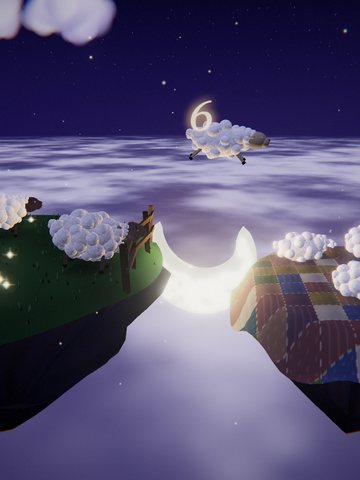
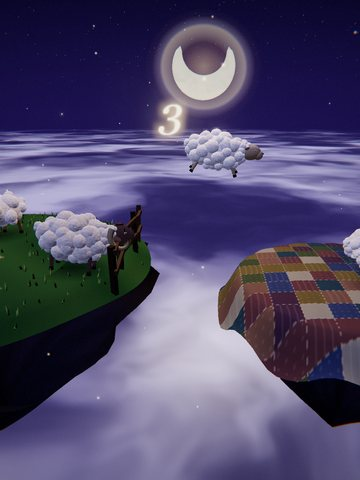
Counting Sheep: the moon up in the sky, and a cloud sea that billows
- The crescent moon hangs near the top of the view, whatever the
  screen's shape, with the breathing ring round it; each sheep sails
  up beneath it at the top of the leap, and its light falls from above
- The cloud sea is rebuilt: every octave of noise turned and shifted
  (no grid shows through), warped by itself so it billows, detail
  fading with distance, lit on its moon side, with moonlight glinting
  across the tops; the sky's own cloud band kept faint
- Softer moon, paler halo and ring; new thumbnail

diff --git a/web/scenes/dream/sheep.js b/web/scenes/dream/sheep.js
@@ -1,8 +1,8 @@
 // Counting Sheep: the old trick, made literal. A flock of cloud-sheep grazes on stars that grow
-// in the grass of a little floating island. Beyond its fence, a crescent moon rocks like a cradle
-// in the gap, and across it lies a second island made up like a bed: a patchwork quilt and a
+// in the grass of a little floating island, over a sea of cloud. High above, a crescent moon rocks
+// like a cradle; across the gap lies a second island made up like a bed: a patchwork quilt and a
 // pillow. Every so often (on the music's breath: the run-up on the in-breath, the long float down
-// on the out-breath) a sheep trots up and leaps the fence, over the moon, and a number glows and
+// on the out-breath) a sheep trots up and leaps the fence, up towards the moon, and a number glows and
 // fades: 1, 2, 3... It lands on the quilt, finds a place, lies down and sleeps; after a while it
 // melts into a cloud and drifts up into the sky, and later a cloud may come down to the grass as a
 // sheep again. As the night goes on the jumps get lazier, the clouds stop coming down, and the
@@ -14,7 +14,7 @@ const WC = new THREE.Vector3(-4.0, 0, 0), WR = 3.9;       // the waking island, 
 const SC = new THREE.Vector3(4.3, -0.45, -0.3), SR = 2.6;  // the sleeping island: the quilt and the pillow
 const FENCE_X = -0.55, FENCE_Z = 1.5;
 const TAKEOFF = new THREE.Vector3(-1.45, 0, 0), WAIT = new THREE.Vector3(-3.3, 0, 0.15), LAND = new THREE.Vector3(2.75, 0, -0.1);
-const MOON = new THREE.Vector3(0.6, -0.55, -1.7);
+const MOON_LIGHT = new THREE.Vector3(0.6, 6.5, -2.0); // where the moon's light falls from (the moon itself hangs far off, high in the sky)
 const RAMSPOT = new THREE.Vector3(-1.35, 0, 1.1);
 // The jump is shaped like a breath: the run-up and a quick hop to the top on the in-breath, then
 // a long, slow float down on the out-breath, like thistledown.
@@ -162,11 +162,11 @@ const WOOLF = `uniform vec3 uCam, uKey, uKeyCol, uMoonPos, uMoonCol, uSky, uGrou
 export function createSheepScene({ mobile, seed }) {
   const S = createStage({ mobile, seed, salt: 0x5ee9, bg: '#0b0a26', fog: { color: '#1c1a40', near: 30, far: 140 }, exposure: 1.0, bloom: [0.55, 0.5, 0.72], finish: { vignette: 0.4, grain: 0.02, ca: 0.6 }, fov: 50 });
   const { rand } = S;
-  const sky = nightSky(S, { top: '#06051a', horizon: '#221d4c', moon: [0, -1, 0], moonSize: 0.0001, halo: '#000000', stars: 1.6, clouds: 0.22, cloudColor: '#34306a', tint: '#2c1640' });
+  const sky = nightSky(S, { top: '#06051a', horizon: '#221d4c', moon: [0, -1, 0], moonSize: 0.0001, halo: '#000000', stars: 1.6, clouds: 0.06, cloudColor: '#34306a', tint: '#2c1640' });
   const su = sky.userData.u;
   moonlight(S, { dir: [-0.4, 0.8, 0.5], color: '#b8c2ff', intensity: 0.75, sky: '#6a6ab8', ground: '#1a1830', fill: 0.75 });
 
-  // ---------------------------------------------------------------- the crescent moon, rocking in the gap
+  // ---------------------------------------------------------------- the crescent moon, rocking high in the sky (placed each frame, near the top of the view)
   const moonU = { uTime: S.U.uTime, uGlow: { value: 1 } };
   const moon = new THREE.Mesh(crescentGeo(1.35), new THREE.ShaderMaterial({
     uniforms: moonU,
@@ -179,20 +179,20 @@ export function createSheepScene({ mobile, seed }) {
         float crater = smoothstep(.62, .78, n2(vP.xy * 5. + 11.)) * .5;
         vec3 col = mix(vec3(1., .95, .8), vec3(.86, .8, .66), m * .7 + crater * .5);
         col *= .8 + .2 * max(normalize(vN).z, 0.);
-        gl_FragColor = vec4(col * (.6 + .22 * uGlow), 1.);
+        gl_FragColor = vec4(col * (.5 + .16 * uGlow), 1.);
       }`,
   }));
-  moon.position.copy(MOON); S.add(moon);
-  const haloTex = canvasTexture(S, 128, 128, (g) => { const gr = g.createRadialGradient(64, 64, 0, 64, 64, 64); gr.addColorStop(0, 'rgba(255,226,170,.22)'); gr.addColorStop(0.35, 'rgba(255,200,150,.07)'); gr.addColorStop(1, 'rgba(255,180,140,0)'); g.fillStyle = gr; g.fillRect(0, 0, 128, 128); });
-  const halo = new THREE.Sprite(new THREE.SpriteMaterial({ map: haloTex, transparent: true, depthWrite: false, blending: THREE.AdditiveBlending })); halo.position.copy(MOON).add(new THREE.Vector3(0, -0.4, -0.3)); halo.scale.setScalar(5.5); S.add(halo);
+  S.add(moon);
+  const haloTex = canvasTexture(S, 128, 128, (g) => { const gr = g.createRadialGradient(64, 64, 0, 64, 64, 64); gr.addColorStop(0, 'rgba(250,244,230,.16)'); gr.addColorStop(0.35, 'rgba(225,225,255,.06)'); gr.addColorStop(1, 'rgba(210,210,255,0)'); g.fillStyle = gr; g.fillRect(0, 0, 128, 128); });
+  const halo = new THREE.Sprite(new THREE.SpriteMaterial({ map: haloTex, transparent: true, depthWrite: false, blending: THREE.AdditiveBlending })); S.add(halo);
   const ringTex = canvasTexture(S, 256, 256, (g) => {
     const gr = g.createRadialGradient(128, 128, 60, 128, 128, 126);
-    gr.addColorStop(0, 'rgba(255,230,180,0)'); gr.addColorStop(0.62, 'rgba(255,226,170,.55)'); gr.addColorStop(0.72, 'rgba(255,220,170,.2)'); gr.addColorStop(1, 'rgba(255,210,160,0)');
+    gr.addColorStop(0, 'rgba(255,244,220,0)'); gr.addColorStop(0.62, 'rgba(255,242,215,.5)'); gr.addColorStop(0.72, 'rgba(240,236,255,.18)'); gr.addColorStop(1, 'rgba(230,230,255,0)');
     g.fillStyle = gr; g.fillRect(0, 0, 256, 256);
   });
   const breathRing = new THREE.Sprite(new THREE.SpriteMaterial({ map: ringTex, transparent: true, depthWrite: false, blending: THREE.AdditiveBlending, opacity: 0.1 }));
-  breathRing.position.copy(MOON).add(new THREE.Vector3(0, -0.15, 0.2)); S.add(breathRing);
-  const moonLamp = new THREE.PointLight('#ffe2a8', 7, 13, 1.4); moonLamp.position.copy(MOON).add(new THREE.Vector3(0, 0.5, 0.8)); S.add(moonLamp);
+  S.add(breathRing);
+  const moonLamp = new THREE.PointLight('#ffe2a8', 7, 22, 1.1); moonLamp.position.copy(MOON_LIGHT); S.add(moonLamp);
 
   // ---------------------------------------------------------------- the waking island: grass, stars growing in it, the fence
   const grassCol = (x, z, c) => { const k = 0.5 + 0.5 * Math.sin(x * 1.7 + Math.cos(z * 1.3) * 2) * Math.sin(z * 1.1 - x * 0.4); c.set('#3a6a3c').lerp(new THREE.Color('#5d8a4a'), k * 0.8); };
@@ -280,22 +280,31 @@ export function createSheepScene({ mobile, seed }) {
   }
 
   // ---------------------------------------------------------------- far below: a sea of cloud
-  const seaU = { uTime: S.U.uTime, uLit: { value: 1 } };
+  const seaU = { uTime: S.U.uTime, uLit: { value: 1 }, uCam: { value: new THREE.Vector3() }, uMoon: { value: new THREE.Vector3(0, 30, -50) } };
   const sea = new THREE.Mesh(new THREE.PlaneGeometry(900, 900).rotateX(-Math.PI / 2), new THREE.ShaderMaterial({
     uniforms: seaU, transparent: true, depthWrite: false,
     vertexShader: 'varying vec3 vW; void main(){ vec4 w = modelMatrix * vec4(position, 1.); vW = w.xyz; gl_Position = projectionMatrix * viewMatrix * w; }',
-    fragmentShader: `uniform float uTime, uLit; varying vec3 vW;
-      float h2(vec2 p){ p = fract(p * vec2(123.34, 456.21)); p += dot(p, p + 45.32); return fract(p.x * p.y); }
+    // Every octave of the noise is turned and shifted (so no grid shows through) and the whole
+    // pattern is warped by itself, so it billows instead of tiling; detail fades with distance
+    // (no shimmer); each billow is lit on its moon side, and the moon glints across the tops.
+    fragmentShader: `uniform float uTime, uLit; uniform vec3 uCam, uMoon; varying vec3 vW;
+      float h2(vec2 p){ vec3 q = fract(vec3(p.xyx) * .1031); q += dot(q, q.yzx + 33.33); return fract((q.x + q.y) * q.z); }
       float n2(vec2 p){ vec2 i = floor(p), f = fract(p); f = f * f * (3. - 2. * f); return mix(mix(h2(i), h2(i + vec2(1, 0)), f.x), mix(h2(i + vec2(0, 1)), h2(i + vec2(1, 1)), f.x), f.y); }
-      float fb(vec2 p){ return .5 * n2(p) + .25 * n2(p * 2.1 + 1.7) + .125 * n2(p * 4.3 + 3.1) + .0625 * n2(p * 8.7); }
+      const mat2 M = mat2(1.6, 1.2, -1.2, 1.6);
+      float fb(vec2 p, float detail){ float a = .5, s = 0.; for (int i = 0; i < ${mobile ? 5 : 6}; i++){ s += a * (i < 3 ? 1. : detail) * n2(p); p = M * p + vec2(1.7, 9.2); a *= .5; } return s; }
       void main(){
-        vec2 p = vW.xz * .055 + vec2(uTime * .006, uTime * .003);
-        float d = fb(p), d2 = fb(p * 1.7 - 4.);
-        float dens = .3 + .7 * smoothstep(.28, .66, d * .7 + d2 * .3);
-        vec3 col = mix(vec3(.09, .08, .22), vec3(.42, .4, .7), dens) * (.75 + .2 * uLit);
-        col += vec3(1., .85, .6) * .12 * exp(-length(vW.xz - vec2(1., -1.)) * .03) * dens;   // the moon's glow on the cloud tops
-        float r = length(vW.xz);
-        gl_FragColor = vec4(col, dens * (1. - smoothstep(160., 430., r)) * .95);
+        float dist = length(vW - uCam), detail = 1. - smoothstep(30., 150., dist);
+        vec2 p = vW.xz * .045, drift = vec2(uTime * .004, uTime * .0025);
+        vec2 q = vec2(fb(p + drift, detail), fb(p + vec2(5.2, 1.3) - drift * .7, detail));
+        vec2 w = p + 1.6 * q + drift * .5;
+        float d = fb(w, detail), dens = smoothstep(.22, .72, d);
+        vec2 ld = normalize(uMoon.xz - vW.xz + vec2(1e-3));
+        float lit = clamp((d - fb(w + ld * .22, detail)) * 4. + .55, 0., 1.);       // brighter on the side facing the moon
+        vec3 col = mix(vec3(.07, .06, .18), vec3(.32, .3, .58), dens) * (.68 + .55 * lit) * (.78 + .2 * uLit);
+        vec3 V = normalize(vW - uCam), R = reflect(V, vec3(0., 1., 0.)), L = normalize(uMoon - vW);
+        col += vec3(1., .86, .62) * pow(max(dot(R, L), 0.), 14.) * .3 * (.3 + .7 * dens) * (.6 + .4 * uLit); // moonlight across the tops
+        float r = length(vW.xz - uCam.xz);
+        gl_FragColor = vec4(col, (.4 + .6 * dens) * (1. - smoothstep(170., 430., r)));
       }`,
   }));
   sea.position.y = -11; sea.renderOrder = -0.5; S.add(sea);
@@ -304,7 +313,7 @@ export function createSheepScene({ mobile, seed }) {
   // ---------------------------------------------------------------- the sheep
   const woolU = {
     uCam: { value: new THREE.Vector3() }, uKey: { value: new THREE.Vector3(-0.4, 0.8, 0.5).normalize() }, uKeyCol: { value: new THREE.Color('#aab4f0') },
-    uMoonPos: { value: moonLamp.position.clone() }, uMoonCol: { value: new THREE.Color('#ffd9a0') }, uMoonPow: { value: 1.6 },
+    uMoonPos: { value: MOON_LIGHT.clone() }, uMoonCol: { value: new THREE.Color('#ffd9a0') }, uMoonPow: { value: 1.6 },
     uSky: { value: new THREE.Color('#7070c0') }, uGround: { value: new THREE.Color('#2a2a44') }, uCloudCol: { value: new THREE.Color('#c4c0ee') },
   };
   const woolMat = (tint, s) => S.keep(new THREE.ShaderMaterial({ uniforms: { ...woolU, uTint: { value: new THREE.Color(tint) }, uCloud: { value: 0 }, uSeed: { value: s }, uFade: { value: 0 } }, vertexShader: WOOLV, fragmentShader: WOOLF }));
@@ -428,7 +437,7 @@ export function createSheepScene({ mobile, seed }) {
   }
 
   // ---------------------------------------------------------------- the flock's brains
-  let clockT = 0, energy = 1, next = null, breath = 0, bStart = -99, bIn = 5.4, bOut = 5.5;
+  let moonSize = 1, clockT = 0, energy = 1, next = null, breath = 0, bStart = -99, bIn = 5.4, bOut = 5.5;
   const v3 = new THREE.Vector3(), v4 = new THREE.Vector3();
   const awake = () => flock.filter((s) => ['graze', 'next', 'run', 'flight'].includes(s.state));
   const freeStar = (sh) => {
@@ -810,15 +819,14 @@ export function createSheepScene({ mobile, seed }) {
     // the breath, in the light: the moon brightens as the runner breathes in, and fades on the long breath out
     { const u = t - bStart; breath = u < 0 ? 0 : u < bIn ? 0.5 - 0.5 * Math.cos(Math.PI * u / bIn) : u < bIn + bOut ? 0.5 + 0.5 * Math.cos(Math.PI * (u - bIn) / bOut) : 0; }
     // a ring of soft light round the moon that swells as you breathe in and slowly settles as you breathe out
-    breathRing.scale.setScalar(3.3 + 1.7 * breath); breathRing.material.opacity = (0.1 + 0.32 * breath) * (0.55 + 0.45 * energy);
-    moonU.uGlow.value = 0.6 + 0.6 * breath; seaU.uLit.value = 0.6 + 0.5 * breath; woolU.uMoonPow.value = 1.3 + 0.8 * breath; moonLamp.intensity = 5.5 + 3.5 * breath;
+    breathRing.scale.setScalar((2.45 + 1.25 * breath) * moonSize); breathRing.material.opacity = (0.1 + 0.32 * breath) * (0.55 + 0.45 * energy);
+    moonU.uGlow.value = 0.6 + 0.6 * breath; seaU.uLit.value = 0.6 + 0.5 * breath; woolU.uMoonPow.value = 1.3 + 0.8 * breath; moonLamp.intensity = 6 + 3.5 * breath;
     halo.material.opacity = 0.6 + 0.4 * breath;
-    moon.rotation.set(0.08, -0.25, Math.sin(t * 0.21) * 0.07); // rocking like a cradle
     // the numbers: glow up, drift and fade
     for (const n of nums) { const k = (t - n.t0) / 5; n.sp.visible = k >= 0 && k < 1; if (!n.sp.visible) continue; n.sp.material.opacity = sstep(0, 0.12, k) * (1 - sstep(0.45, 1, k)) * 0.95; n.sp.position.copy(n.at).y += k * 0.7; }
     // the sky gathers its clouds as the flock goes to sleep
     const clouds = flock.filter((s) => s.state === 'cloud' || s.state === 'rise').length;
-    su.uClouds.value = lerp(su.uClouds.value, 0.18 + 0.05 * clouds + 0.25 * (1 - energy), 1 - Math.exp(-dt * 0.05));
+    su.uClouds.value = lerp(su.uClouds.value, 0.06 + 0.02 * clouds + 0.08 * (1 - energy), 1 - Math.exp(-dt * 0.05));
     // the camera
     const cam = S.camera, tanH = Math.tan((cam.fov * Math.PI) / 360), portrait = cam.aspect < 0.8;
     const dist = clamp(Math.max((portrait ? 3.9 : 7.2) / (tanH * cam.aspect), 3.6 / tanH), 8, 26);
@@ -829,7 +837,19 @@ export function createSheepScene({ mobile, seed }) {
     look.set(lookX, portrait ? 0.35 : 0.5, -0.3);
     cam.position.set(look.x + Math.sin(az) * dist * Math.cos(el), look.y + Math.sin(el) * dist, look.z + Math.cos(az) * dist * Math.cos(el));
     cam.lookAt(look);
-    woolU.uCam.value.copy(cam.position);
+    woolU.uCam.value.copy(cam.position); seaU.uCam.value.copy(cam.position);
+    {
+      const steady = v3.set(0.2 + Math.sin(0) * dist, look.y + Math.sin(0.27) * dist, look.z + Math.cos(0.27) * dist);
+      const fwd = v4.set(0.2, look.y, look.z).sub(steady).normalize();
+      const up = new THREE.Vector3(0, 1, 0).sub(fwd.clone().multiplyScalar(fwd.y)).normalize();
+      const a = Math.atan(tanH * (portrait ? 0.66 : 0.7)), D = 55;
+      moon.position.copy(steady).addScaledVector(fwd, Math.cos(a) * D).addScaledVector(up, Math.sin(a) * D);
+      moonSize = (D * tanH * (portrait ? 0.11 : 0.15)) / 1.35;
+      moon.scale.setScalar(moonSize); moon.lookAt(steady); moon.rotateZ(Math.sin(t * 0.21) * 0.07); // rocking like a cradle
+      halo.position.copy(moon.position); halo.scale.setScalar(4.1 * 1.35 * moonSize);
+      breathRing.position.copy(moon.position); breathRing.scale.multiplyScalar(1.35);
+      seaU.uMoon.value.copy(moon.position);
+    }
   });
 
   S.scene.userData.flock = { flock, ram, stars, BEDS, get count() { return count; }, ground, hW, hS };

diff --git a/web/sw.js b/web/sw.js
@@ -1,5 +1,5 @@
 // Offline support: network first (so updates show straight away), cached copy when offline.
-const CACHE = 'lullwave-v26';
+const CACHE = 'lullwave-v27';
 const J = './vendor/three/examples/jsm/';
 const CORE = ['./', './index.html', './main.js', './audio.js', './render.js',
   './music/voices.js', './music/cave.js', './music/drive.js', './music/ocean.js', './music/aurora.js', './music/rain.js', './music/space.js', './music/disco.js', './music/nature.js', './music/eventing.js', './music/cotswold.js', './scenes/cave.js', './scenes/drive.js', './scenes/ocean.js', './scenes/aurora.js', './scenes/rain.js', './scenes/space.js', './scenes/disco.js', './scenes/country.js', './scenes/eventing.js', './scenes/cotswold.js', './scenes/kit.js', './scenes/tabby.js', './scenes/dream/penny-life.js', J + 'loaders/GLTFLoader.js', './models/penny/ArmChair_01.glb', './models/penny/ClassicNightstand_01.glb', './models/penny/Ottoman_01.glb', './models/penny/Sofa_01.glb', './models/penny/potted_plant_04.glb', './models/penny/throw_pillows_01.glb', './models/penny/vintage_grandfather_clock_01.glb', './models/penny/vintage_oil_lamp.glb', './models/penny/wicker_basket_01.glb', './models/penny/wooden_bookshelf_worn.glb',  './scenes/figures.js', './scenes/interior.js', './music/ambient.js', './music/profiles.js', './music/bespoke.js', './music/xmas.js', './music/choirsong.js', './music/pizzeria.js', './music/feversong.js', './music/canalsong.js', './music/pennysong.js', './scenes/dream/meadow.js', './scenes/dream/estate.js', './scenes/dream/woolpack.js', './scenes/dream/canal.js', './scenes/dream/stables.js', './scenes/dream/market.js', './scenes/dream/trail.js', './scenes/dream/choir.js', './scenes/dream/penny.js', './scenes/dream/pizza.js', './scenes/dream/lost.js', './scenes/dream/stardome.js', './scenes/dream/bakery.js', './scenes/dream/fever.js', './scenes/dream/sheep.js', './music/sheepsong.js',

diff --git a/web/main.js b/web/main.js
@@ -32,7 +32,7 @@ const ALL_WORLDS = [
   { id: 'lost', group: 1, off: true, name: 'Lost on the Trail', tag: 'A hiker follows a glowing map line round a starlit wood, past signposts that cannot agree.' },
   { id: 'stardome', group: 1, off: true, name: 'The Stardome', tag: 'A glowing stage far below a vast starry sky. Soft beams sweep and lanterns rise.' },
   { id: 'bakery', group: 1, off: true, name: 'The Great Bread Bake', tag: 'Fresh loaves steam on the racks and flour drifts like snow, while the bakery cat sleeps by the oven.' },
-  { id: 'sheep', group: 1, name: 'Counting Sheep', tag: 'Cloud-sheep graze on stars, then leap the fence over a crescent moon one slow breath at a time, until the whole flock is asleep.' },
+  { id: 'sheep', group: 1, name: 'Counting Sheep', tag: 'Cloud-sheep graze on stars, then leap the fence beneath a crescent moon one slow breath at a time, until the whole flock is asleep.' },
   { id: 'fever', group: 1, name: 'Pineapple Fever Dream', tag: 'A giant pineapple snoozes on an endless rolling checkerboard, while pineapples drift by under a pineapple moon.' },
 ];
 const GROUPS = ['Original worlds', 'Dream scenes'];

diff --git a/README.md b/README.md
@@ -41,9 +41,9 @@ sounds of the place (built on `web/music/bespoke.js`):
 | **Penny's Night Patrol** (`pennysong.js`) | A late-night jazz trio: vibraphone tune, electric piano comping, walking bass and brushes, swung, round a ii-V-I; Penny purrs, the embers settle, the grandfather clock ticks and chimes, the odd sleepy mew. |
 | **The Pineapple Pizza Incident** (`pizzeria.js`) | A slow tarantella in A minor: mandolin tremolo, accordion on the off-beats, guitar bass, a whispered tambourine; the oven's fire, the chef kneading, plates clinking. |
 | **Pineapple Fever Dream** (`feversong.js`) | A warped tropical lullaby: steel pan in a whole-tone scale, a marimba echo, wobbling augmented chords, celesta twinkles, the odd boing. |
-| **Counting Sheep** (`sheepsong.js`) | A music-box waltz over soft strings that slowly winds down through the night like a box running down. It breathes with the jumps: a rising swell as each sheep starts its run-up (breathe in), a falling one as it sails over the moon (breathe out), with a bell that climbs the scale as the count goes up. A bleat now and then, the ram's huff, the box being wound again. |
+| **Counting Sheep** (`sheepsong.js`) | A music-box waltz over soft strings that slowly winds down through the night like a box running down. It breathes with the jumps: a rising swell as each sheep starts its run-up (breathe in), a falling one as it floats down beneath the moon (breathe out), with a bell that climbs the scale as the count goes up. A bleat now and then, the ram's huff, the box being wound again. |
 
-In **Counting Sheep**, a flock of cloud-sheep grazes on stars growing in the grass of a floating island. Each sheep has its own mind: it wanders, eats a star (which grows back), rests, or looks up to bleat. On the music's breath, one trots up and leaps the fence over a crescent moon that rocks like a cradle: the run-up and the hop to the top are the in-breath, and the long, slow float down onto the quilt (ears up, legs dangling, like thistledown) is the out-breath. A number glows and fades as it clears the moon. A soft ring of light round the moon breathes with the music, swelling on the in-breath and settling on the out-breath, whether or not a sheep is jumping, so you can breathe along with it. It lands on the next island (a patchwork quilt with a pillow), finds a bed and goes to sleep; later its fleece dissolves into a soft cloud that drifts up into the sky, and a cloud may come back down to the grass as a sheep. As the night goes on the jumps get lazier and the clouds stop coming down, until the flock is asleep on the quilt and in the sky. The ram won't jump: he watches from the fence and shakes his head. Now and then he squares up to it (backs off, paws the ground, makes a run at it), stops short, shakes his head and wanders off. In the end he falls asleep there.
+In **Counting Sheep**, a flock of cloud-sheep grazes on stars growing in the grass of a floating island, above a slowly billowing sea of moonlit cloud. Each sheep has its own mind: it wanders, eats a star (which grows back), rests, or looks up to bleat. On the music's breath, one trots up and leaps the fence, sailing across the gap to the next island beneath a crescent moon that hangs high in the sky, rocking like a cradle: the run-up and the hop to the top are the in-breath, and the long, slow float down onto the quilt (ears up, legs dangling, like thistledown) is the out-breath. A number glows and fades at the top of the leap. A soft ring of light round the moon breathes with the music, swelling on the in-breath and settling on the out-breath, whether or not a sheep is jumping, so you can breathe along with it. It lands on the next island (a patchwork quilt with a pillow), finds a bed and goes to sleep; later its fleece dissolves into a soft cloud that drifts up into the sky, and a cloud may come back down to the grass as a sheep. As the night goes on the jumps get lazier and the clouds stop coming down, until the flock is asleep on the quilt and in the sky. The ram won't jump: he watches from the fence and shakes his head. Now and then he squares up to it (backs off, paws the ground, makes a run at it), stops short, shakes his head and wanders off. In the end he falls asleep there.
 
 The switched-off dream scenes use the shared ambient composer described below.
 
